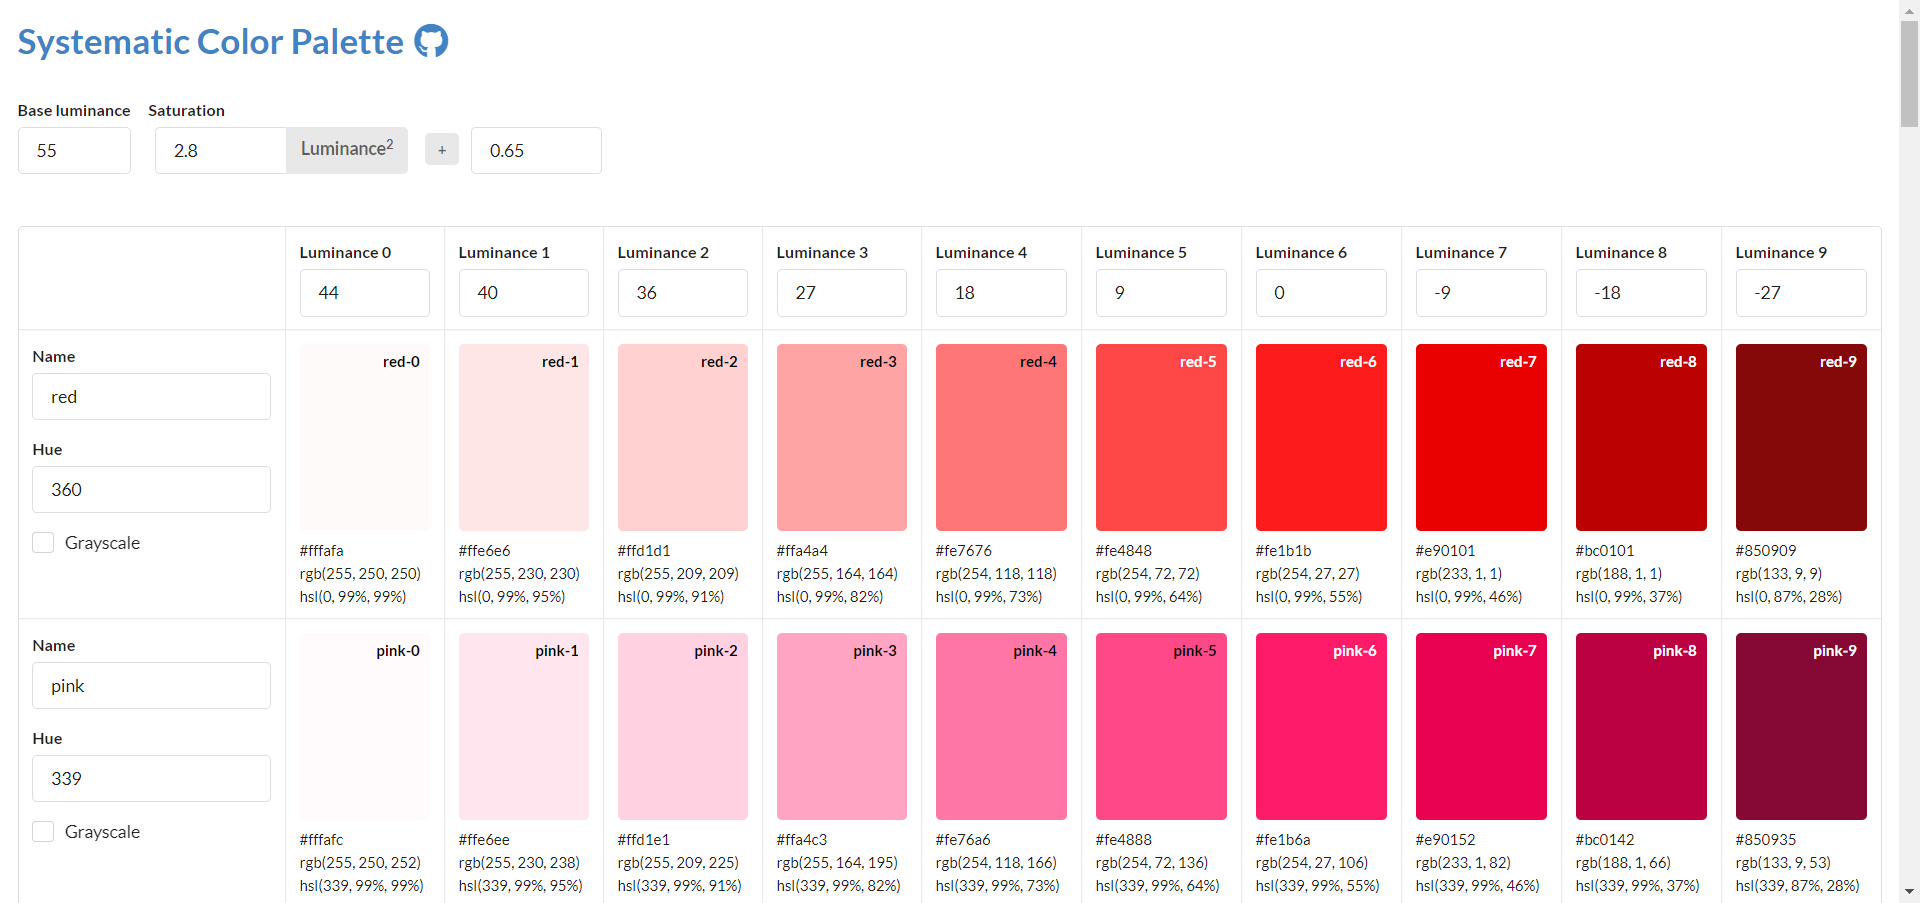
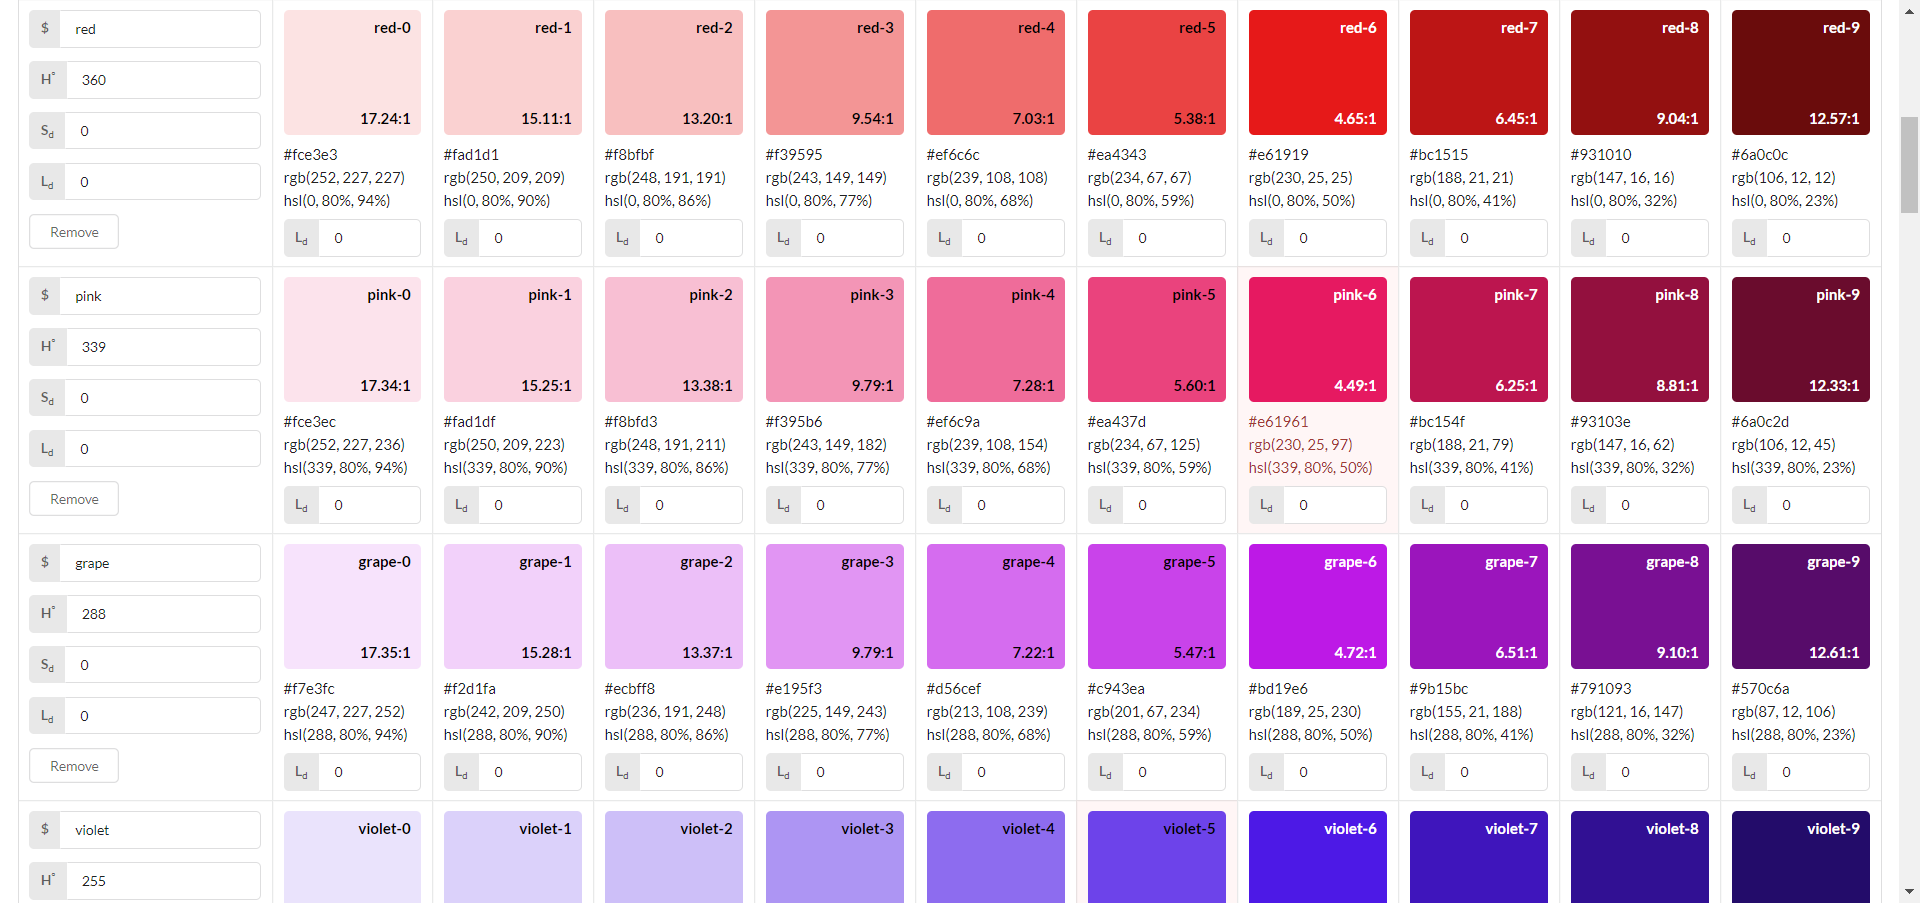
Add analytics and meta tags

diff --git a/public/index.html b/public/index.html
@@ -7,6 +7,12 @@
     <link rel="icon" href="<%= BASE_URL %>favicon.svg" type="image/svg+xml">
     <link rel="stylesheet" href="https://cdnjs.cloudflare.com/ajax/libs/semantic-ui/2.4.1/semantic.min.css"/>
     <title>Systematic Color Palette Generator</title>
+    <meta property="og:title" content="Systematic Color Palette Generator">
+    <meta property="og:site_name" content="hypeJunction">
+    <meta property="og:url" content="https://hypejunction.github.io/color-wizard/">
+    <meta property="og:description" content="Systematic palette generator uses a parabolic formula to autofill color saturation for various intervals, given color hue and luminance. The tools gives you a wide range of control over palette parame">
+    <meta property="og:type" content="website">
+    <meta property="og:image" content="https://github.com/hypeJunction/color-wizard/blob/master/public/color-wizard.png">
 </head>
 
 <body>
@@ -16,5 +22,17 @@
 </noscript>
 <div id="app"></div>
 <!-- built files will be auto injected -->
+<!-- Global site tag (gtag.js) - Google Analytics -->
+<script async src="https://www.googletagmanager.com/gtag/js?id=UA-138044473-1"></script>
+<script>
+window.dataLayer = window.dataLayer || [];
+
+function gtag() {dataLayer.push(arguments);}
+
+gtag('js', new Date());
+
+gtag('config', 'UA-138044473-1');
+</script>
+
 </body>
 </html>

diff --git a/src/components/ColorWizard.vue b/src/components/ColorWizard.vue
@@ -7,8 +7,17 @@
         </a>
 
         <p>
+          Welcome to my Palette Generator. I have built this tool as I was struggling to find
+          a palette generator that was easy to use and customize. I hope you find it useful.
+        </p>
+
+        <p>
           Systematic palette generator uses a parabolic formula to autofill
           color saturation for various intervals, given color hue and luminance.
+          The tools gives you a wide range of control over palette parameters and
+          allows you to bulk edit HSL levels, as well as define the number of shades
+          and hues in your palette. It also makes it easier to work color contrast and
+          accessibility.
         </p>
 
         <p>

diff --git a/README.md b/README.md
@@ -1,7 +1,11 @@
 # Systematic Color Palette Generator
 
-A simple Vue.js based generator that uses parabolic formula to build a color palette.
+Welcome to my Palette Generator. I have built this tool as I was struggling to find a palette generator that was easy to use and customize. I hope you find it useful.
+          
+Systematic palette generator uses a parabolic formula to autofill color saturation for various intervals, given color hue and luminance. The tools gives you a wide range of control over palette parameters and allows you to bulk edit HSL levels, as well as define the number of shades and hues in your palette. It also makes it easier to work color contrast and accessibility.
 
+Each color swatch also shows you the color contrast against black/white text. WCAG 2.0 specification requires color contrast of at least 4.5:1 for texts under 18pt (24px) for a contrast to be considered accessible for people with vision impairments.
+          
 Inspired by Jeeyoung Jung's article [Designing Systematic Colors](https://uxplanet.org/designing-systematic-colors-b5d2605b15c)
 
 ## [Demo](https://hypejunction.github.io/color-wizard/)
